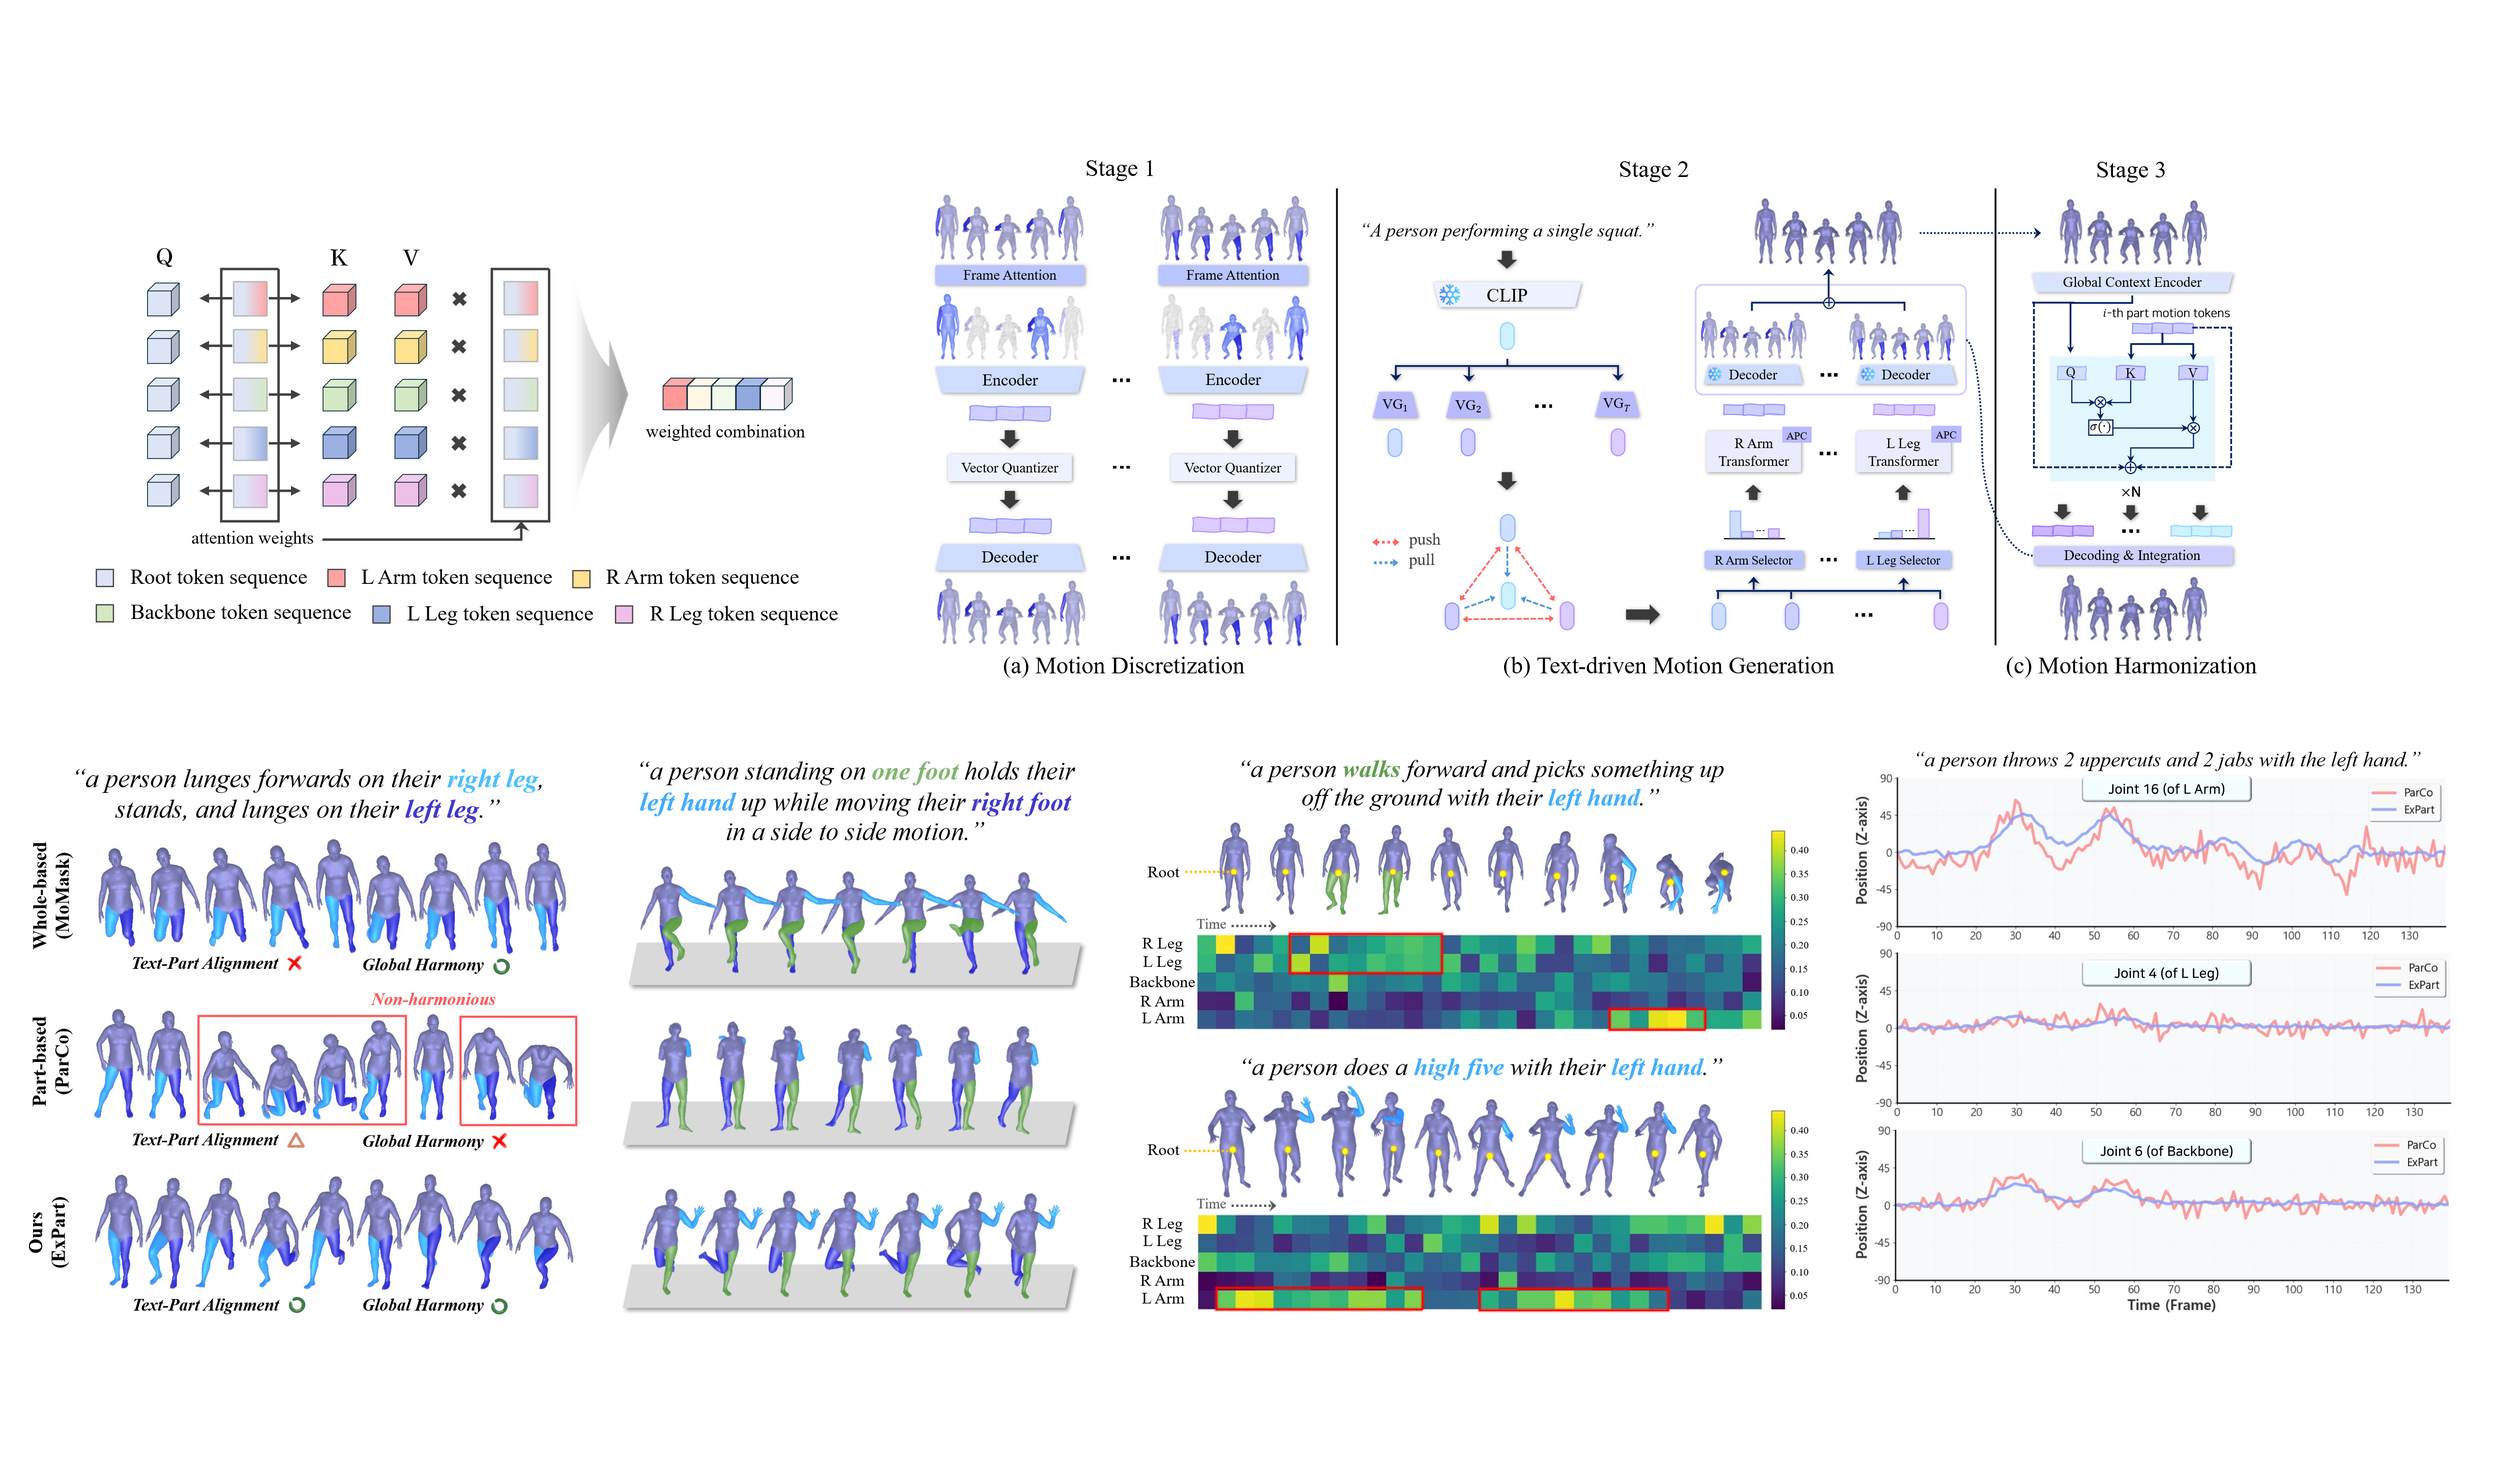
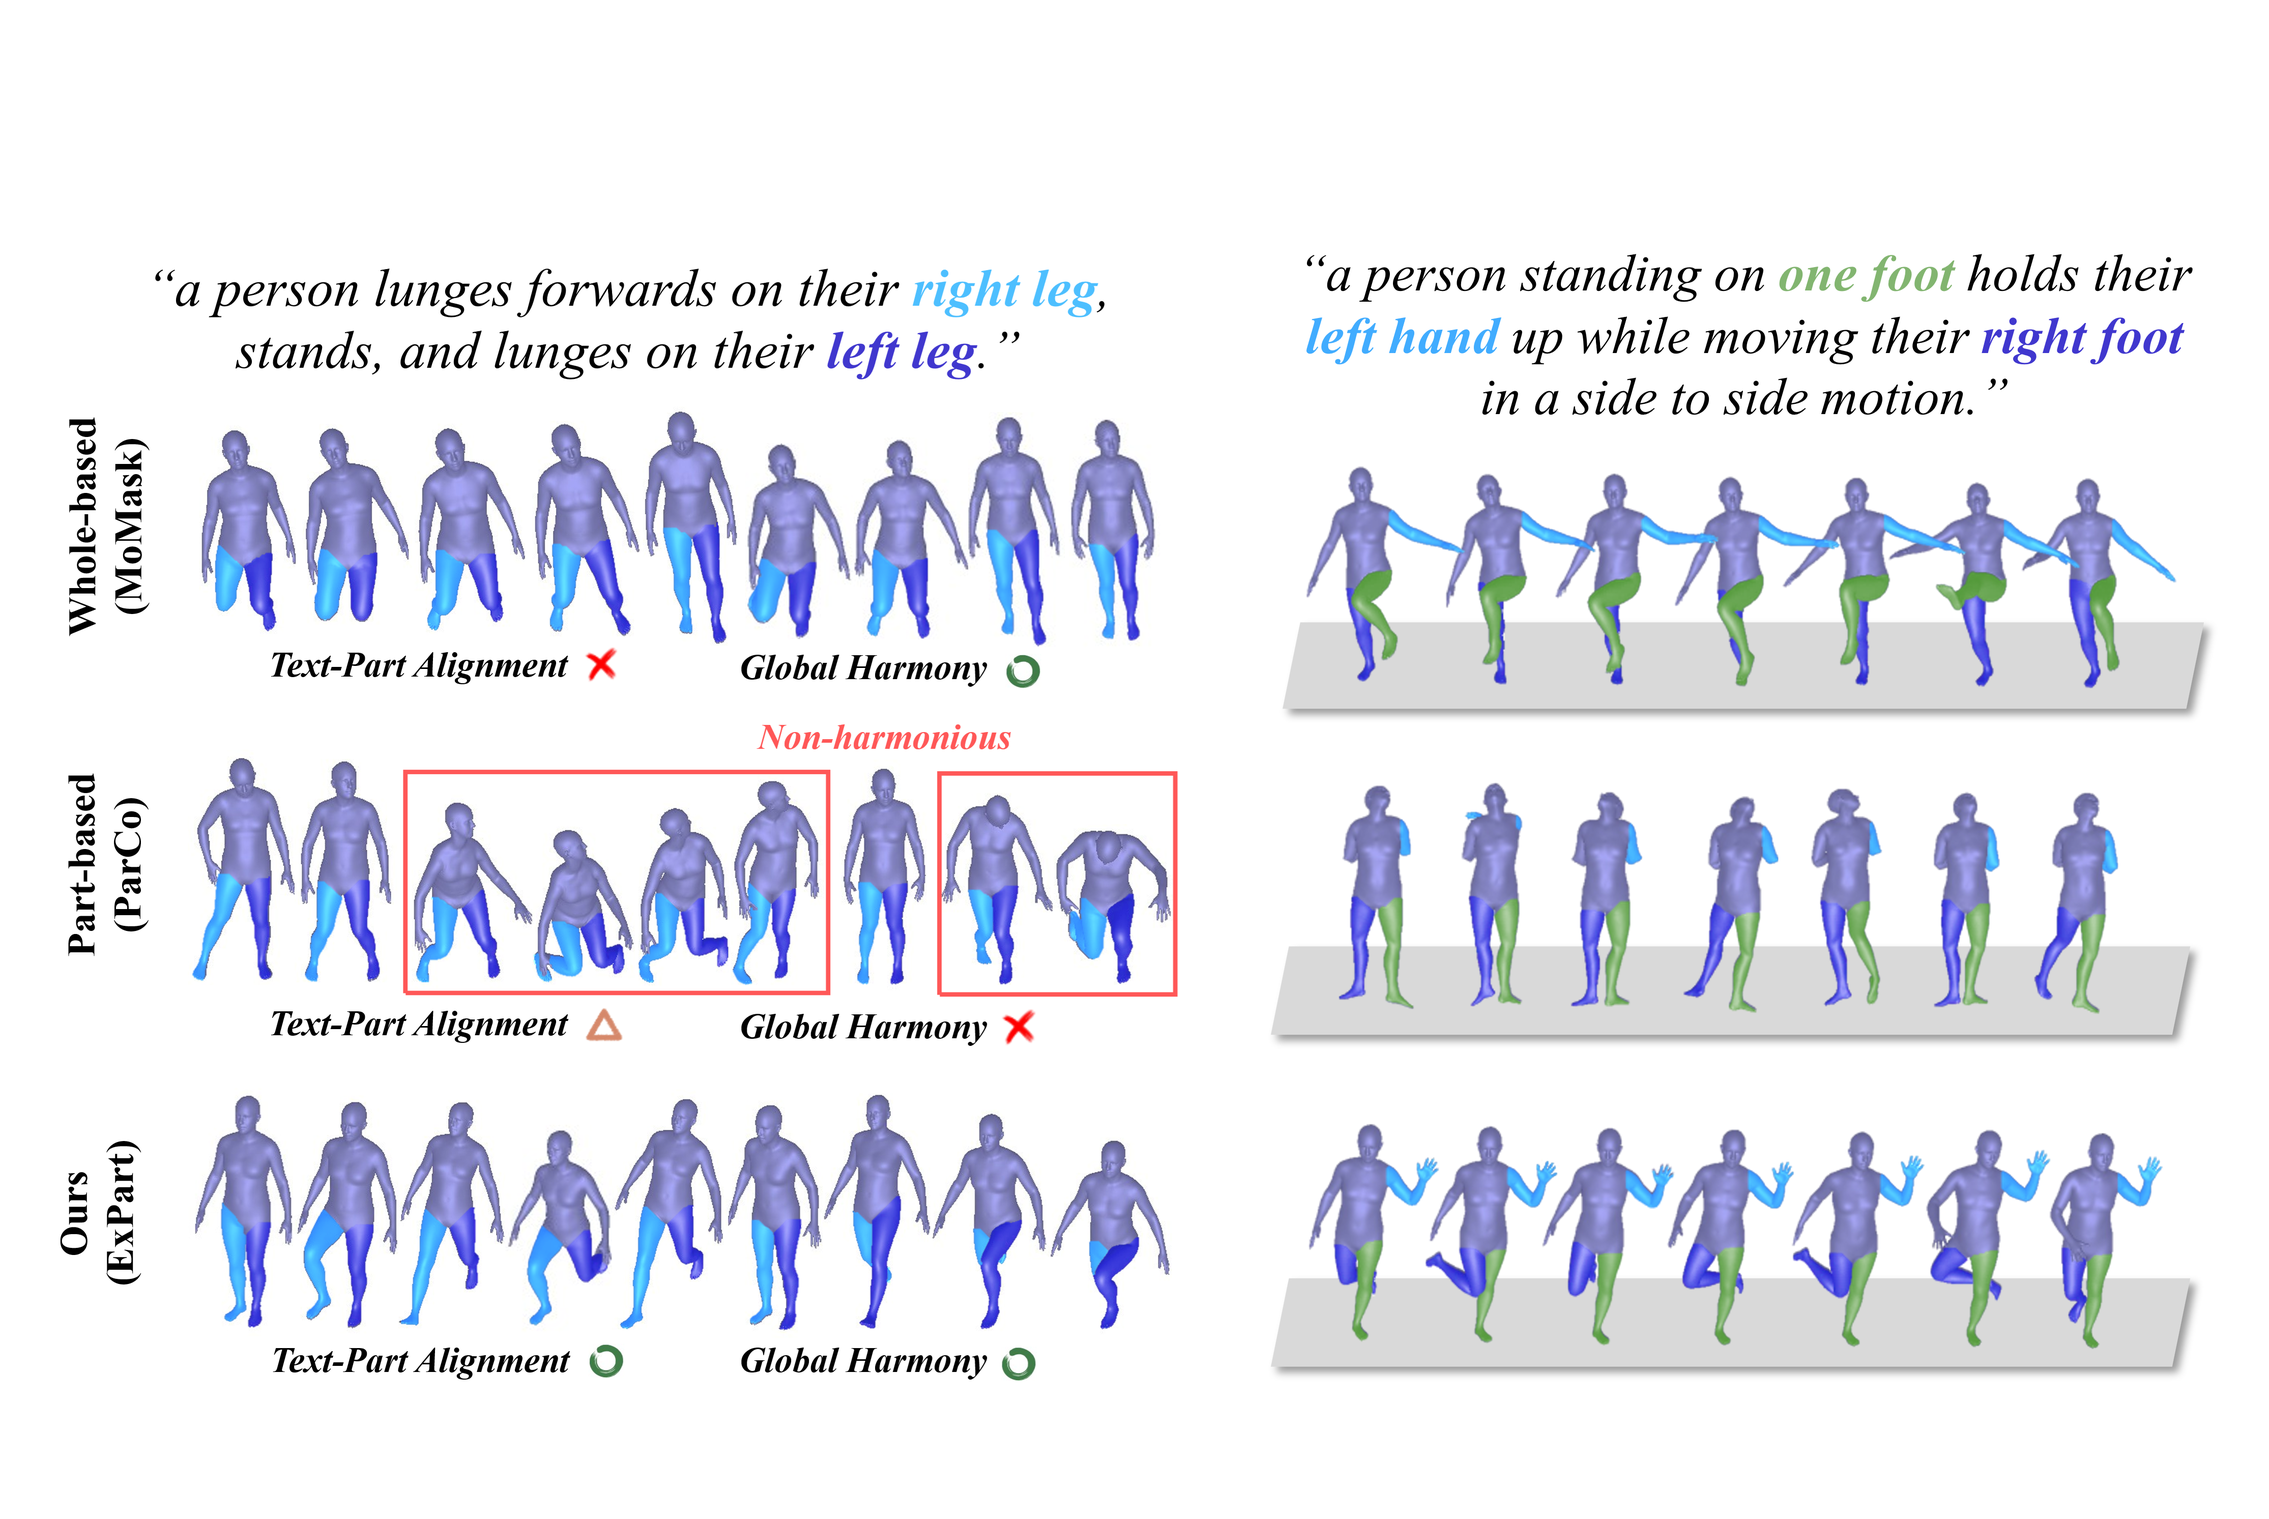
Feat: mod

diff --git a/_includes/publications.md b/_includes/publications.md
@@ -8,7 +8,7 @@
     {%- if link.pdf -%}{%- assign has_papers = true -%}{%- break -%}{%- endif -%}
   {%- endfor -%}
   {%- if has_papers -%}
-  <h3 style="margin-top:18px;">Papers</h3>>PDF</a>
+  <h3 style="margin-top:18px;">Papers</h3>PDF</a>
   <ol class="bibliography">
     {%- for link in site.data.publications.main -%}
       {%- if link.pdf -%}
